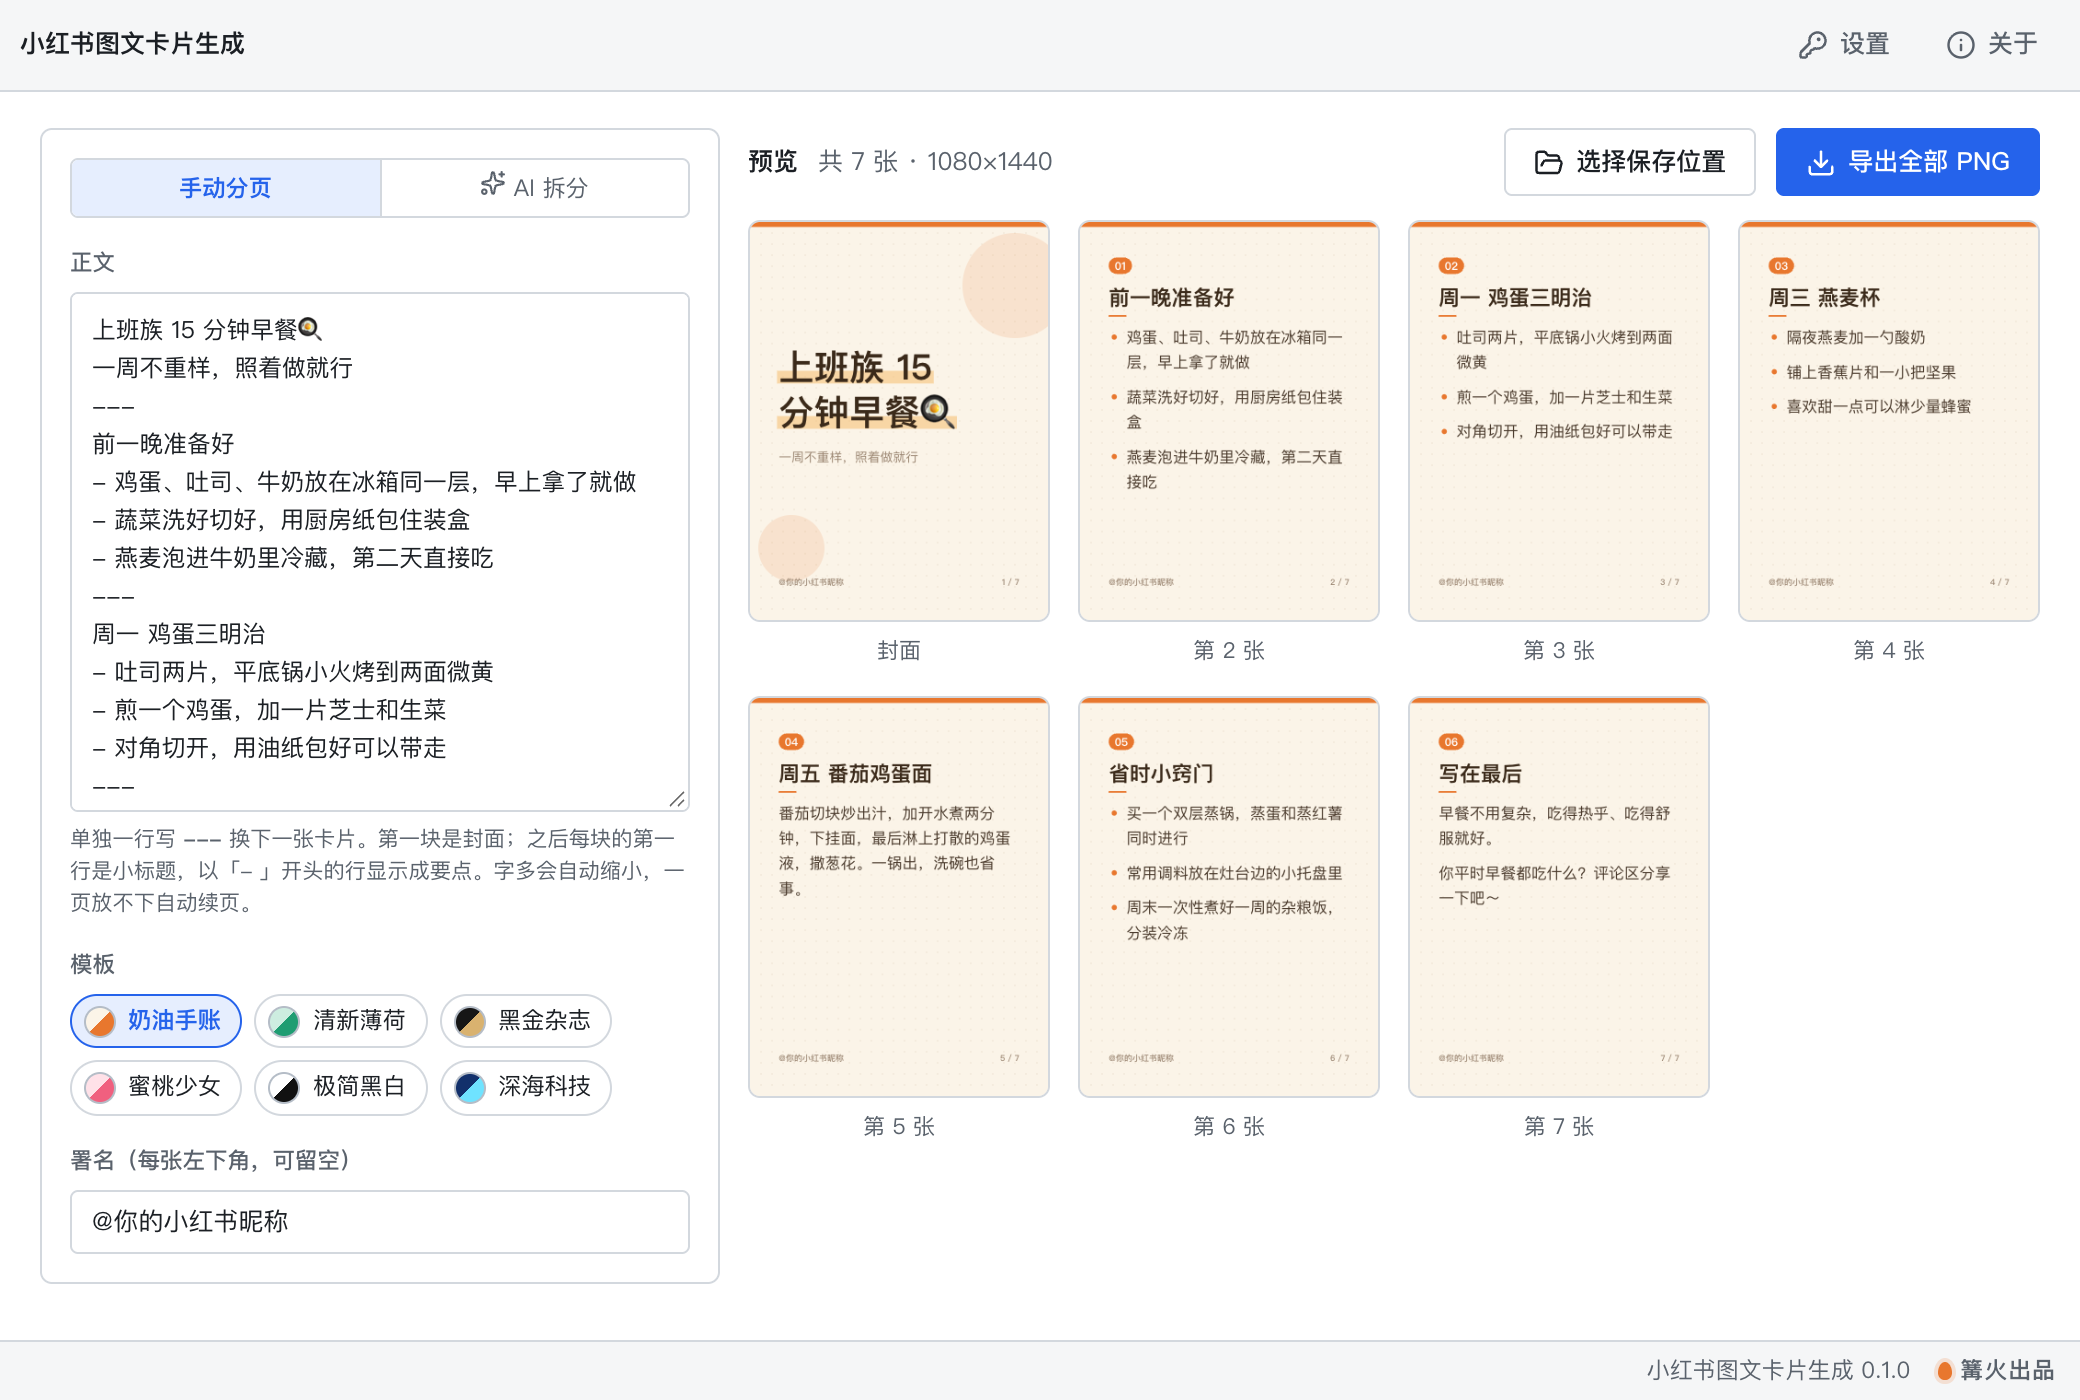
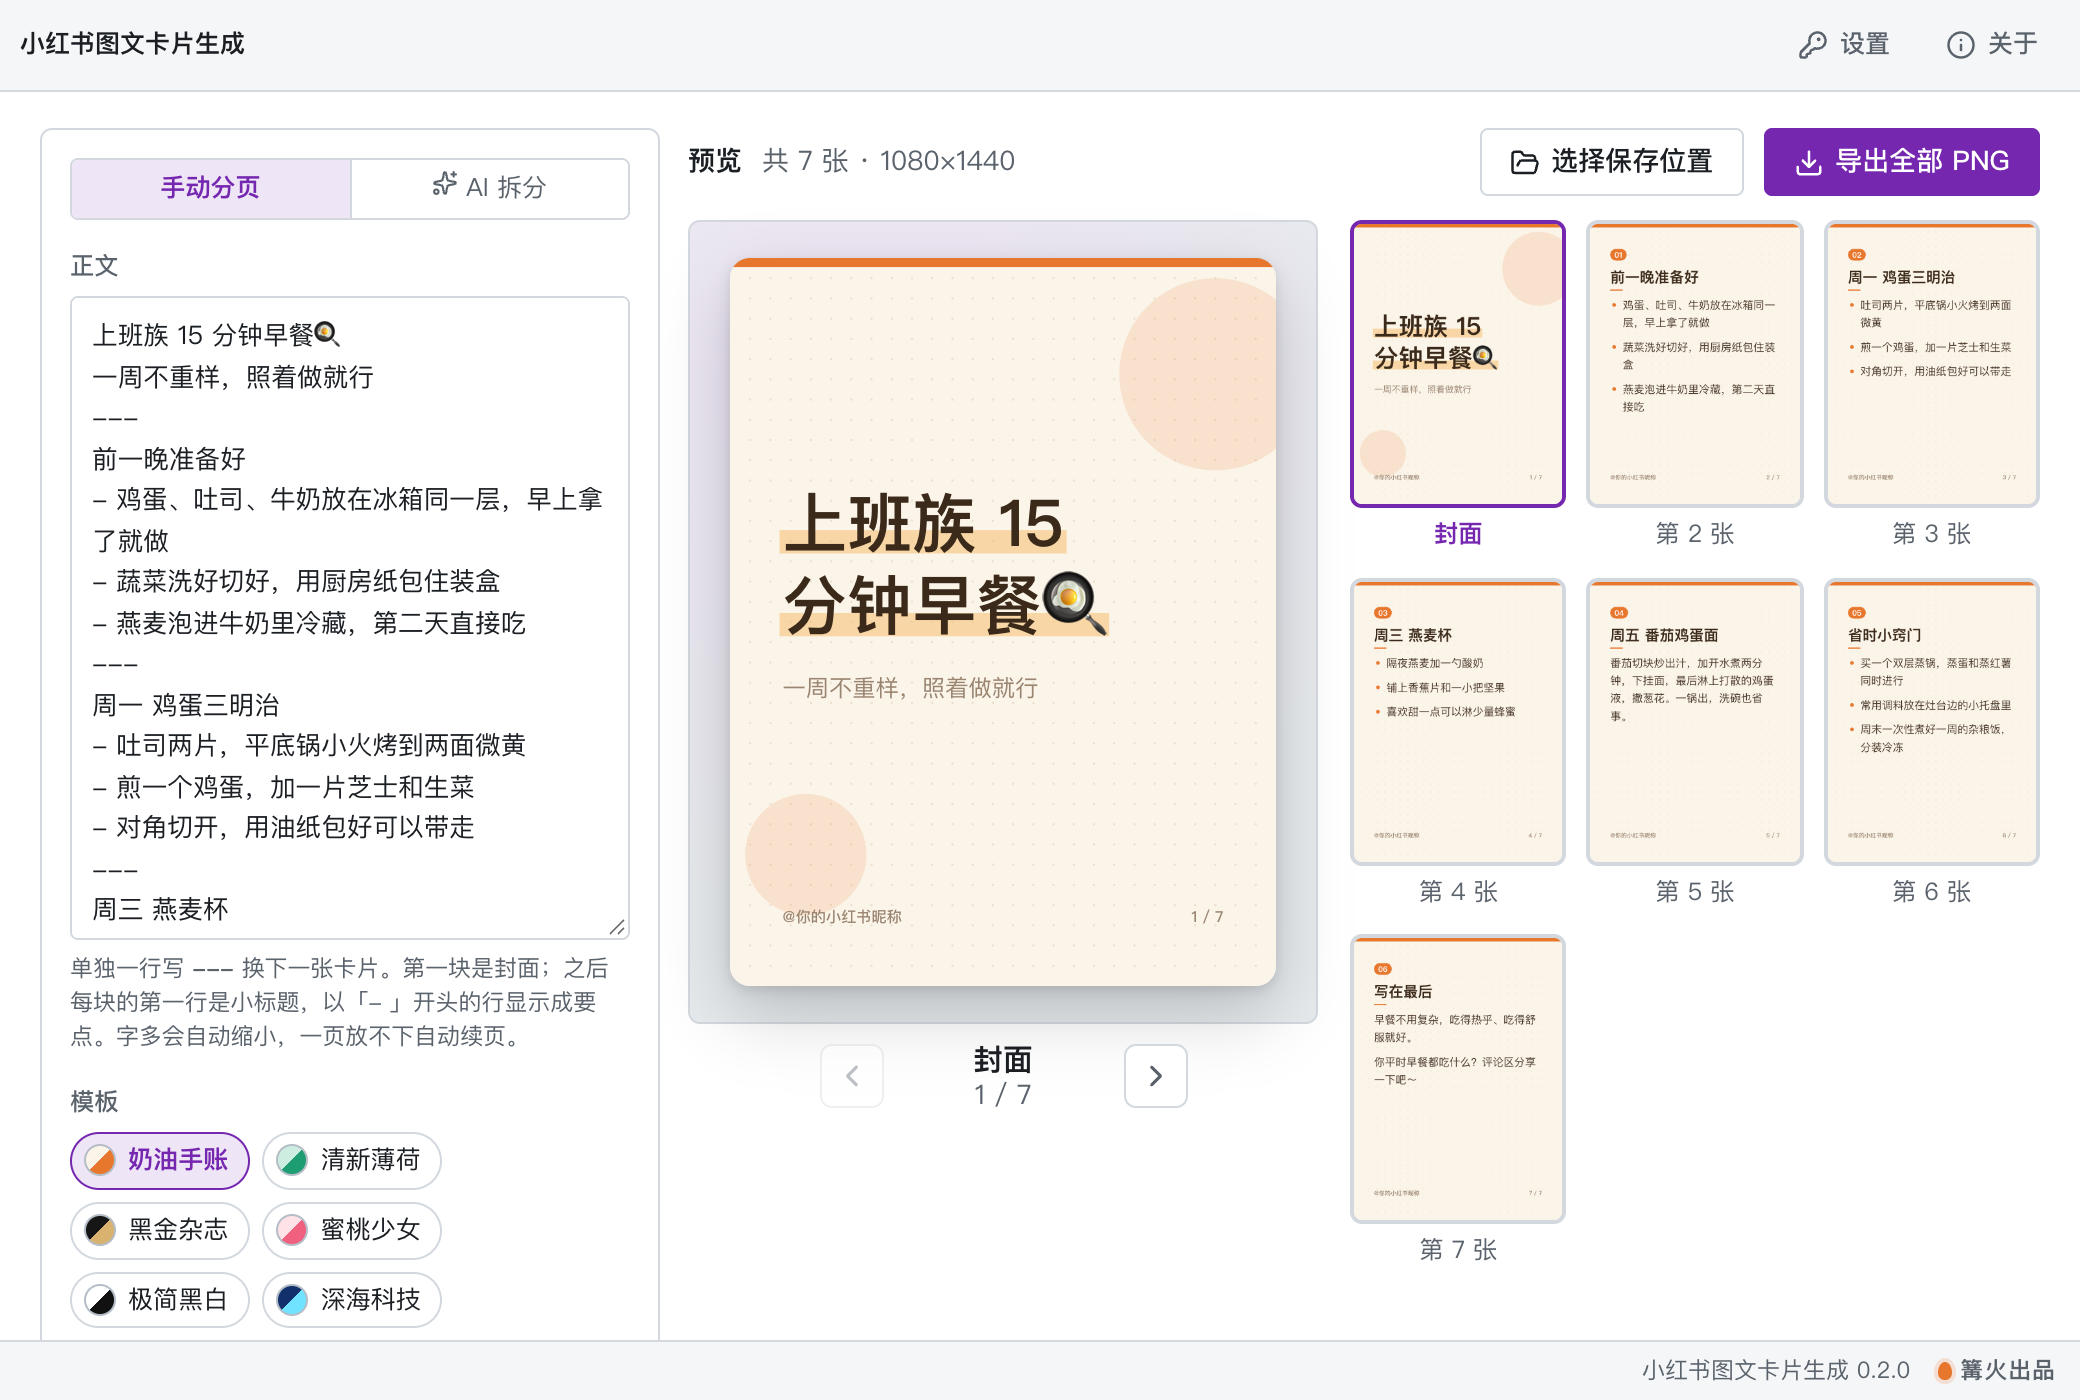
0.2.0：预览改为大图加缩略图，换主色

diff --git a/src/tool/tool.css b/src/tool/tool.css
@@ -1,5 +1,5 @@
 /* 小红书图文卡片生成：只用 kit.css 的变量，类名以 xc- 开头 */
-.xc { flex: 1; display: grid; grid-template-columns: minmax(250px, 340px) minmax(0, 1fr); gap: 14px; align-items: start; min-height: 0; }
+.xc { font-size: 13.5px; flex: 1; display: grid; grid-template-columns: minmax(250px, 310px) minmax(0, 1fr); gap: 14px; align-items: start; min-height: 0; }
 .xc-edit { position: sticky; top: 0; display: flex; flex-direction: column; gap: 14px; padding: 14px; max-height: 100%; }
 .xc-grow { flex: 1; min-height: 0; }
 .xc-text { min-height: 260px; height: 46vh; resize: vertical; font-size: .95em; }
@@ -10,12 +10,25 @@
 .xc-bar { display: flex; align-items: center; gap: 10px; flex-wrap: wrap; }
 .xc-dir { max-width: min(320px, 100%); }
 .xc-dir span { max-width: 260px; }
-.xc-grid { display: grid; grid-template-columns: repeat(auto-fill, minmax(150px, 1fr)); gap: 14px; }
-.xc-card { display: grid; gap: 6px; padding: 0; border: 0; background: none; cursor: zoom-in; text-align: center; font-size: .88em; min-width: 0; }
-.xc-card canvas { width: 100%; aspect-ratio: 3 / 4; height: auto; border-radius: min(var(--radius-lg), 12px); border: 1px solid var(--line); background: var(--chip); transition: border-color .15s var(--ease), transform .15s var(--ease); }
-.xc-card:hover canvas { border-color: var(--primary); transform: translateY(-2px); }
+.xc-stage { display: grid; grid-template-columns: auto minmax(0, 1fr); gap: 16px; align-items: start; }
+.xc-hero { display: grid; gap: 8px; justify-items: center; }
+.xc-desk { padding: 18px 20px; border-radius: var(--radius-lg); border: 1px solid var(--line); background: radial-gradient(circle at 30% 20%, var(--primary-soft), var(--chip) 70%); }
+.xc-big { cursor: zoom-in; padding: 0; border: 0; background: none; display: block; }
+.xc-card.xc-big canvas { height: min(52vh, 520px); width: auto; aspect-ratio: 3 / 4; border-radius: 10px; border: 0; box-shadow: 0 14px 34px color-mix(in srgb, var(--ink) 22%, transparent), 0 2px 6px color-mix(in srgb, var(--ink) 14%, transparent); }
+.xc-card.xc-big:hover canvas { transform: none; }
+.xc-hero-bar { display: flex; align-items: center; gap: 12px; }
+.xc-hero-name { display: grid; text-align: center; min-width: 96px; line-height: 1.3; }
+.xc-hero-name b { font-size: 1.1em; }
+.xc-nav { width: 32px; height: 32px; border: 1px solid var(--line); background: var(--surface); }
+.xc-nav:disabled { opacity: .4; cursor: not-allowed; }
+.xc-strip { display: grid; grid-template-columns: repeat(auto-fill, minmax(84px, 1fr)); gap: 12px 10px; align-content: start; }
+.xc-card { display: grid; gap: 4px; padding: 0; border: 0; background: none; cursor: pointer; text-align: center; font-size: .9em; color: var(--muted); min-width: 0; }
+.xc-card canvas { width: 100%; aspect-ratio: 3 / 4; height: auto; border-radius: min(var(--radius-lg), 8px); border: 2px solid var(--line); background: var(--chip); transition: border-color .15s var(--ease), transform .15s var(--ease); }
+.xc-card:hover canvas { border-color: var(--line-strong); transform: translateY(-2px); }
+.xc-card.on canvas { border-color: var(--primary); }
+.xc-card.on { color: var(--primary); font-weight: 600; }
 .xc-zoom { position: fixed; inset: 0; z-index: 50; display: grid; place-items: center; padding: 20px; background: color-mix(in srgb, var(--ink) 45%, transparent); }
 .xc-zoom-box { display: grid; gap: 12px; padding: 14px; max-height: 100%; }
 .xc-zoom-box canvas { height: min(72vh, 900px); width: auto; aspect-ratio: 3 / 4; border-radius: var(--radius); border: 1px solid var(--line); }
 .xc-zoom-bar { display: flex; align-items: center; justify-content: center; gap: 10px; }
-@media (max-width: 760px) { .xc { grid-template-columns: 1fr; } .xc-edit { position: static; } }
+@media (max-width: 760px) { .xc, .xc-stage { grid-template-columns: 1fr; } .xc-edit { position: static; } }

diff --git a/src/tool/core.ts b/src/tool/core.ts
@@ -265,6 +265,7 @@ export function llmMessages(topic: string): { role: 'system' | 'user'; content: 
     {
       role: 'system',
       content:
+        // check-zh: 忽略（发给大模型的提示词，不显示给用户）
         '你是小红书图文笔记编辑。把用户给的主题或正文整理成一套图文卡片：一个吸引人的封面标题（不超过 20 字，可以带 1 个 emoji），' +
         `一句副标题（不超过 20 字），以及 ${MIN_PAGES}～${MAX_PAGES} 页内容卡片。每页一个小标题（不超过 12 字）和 2～4 条要点，每条要点不超过 40 字，口语化、具体、有干货。` +
         '不要使用「最」「第一」「国家级」等广告法禁用的绝对化用语，不要编造数据。' +

diff --git a/README.md b/README.md
@@ -31,7 +31,7 @@
 3. 字多会自动缩小字号；最小字号也放不下时自动拆出「接上页」的续页，不会把字挤出卡片。
 4. 「模板」里有 6 套风格：奶油手账、清新薄荷、黑金杂志、蜜桃少女、极简黑白、深海科技，点一下全部卡片立即换样式。
 5. 「署名」会写在每张卡片左下角（如 `@你的小红书昵称`），可留空。
-6. 点任意一张缩略图可以放大看，键盘左右键翻页，Esc 关闭。
+6. 右边中间是当前这张的大图，点右侧缩略图（或大图下方的左右箭头）切换；点大图可全屏放大，键盘左右键翻页，Esc 关闭。
 7. 点「导出全部 PNG」，在保存位置下新建「小红书卡片-日期时间」文件夹，按顺序存成 `01-封面.png`、`02-小标题.png`…，每张 1080×1440（3:4 竖版），可直接发小红书。默认保存到「下载 / 小红书图文卡片生成」，点「选择保存位置」可以改。
 
 **让 AI 拆分**（可选）：

diff --git a/CHANGELOG.md b/CHANGELOG.md
@@ -1,5 +1,11 @@
 # 更新记录
 
+## 0.2.0
+
+- 预览区改成「大图加缩略图」：中间放大显示当前卡片，右侧缩略图点选切换，点大图可全屏放大。
+- 主色改为紫色，编辑区字号调到 13.5px。
+- 发给大模型的提示词里的英文标注忽略中文检查，界面文字已全部为中文。
+
 ## 0.1.0
 
 - 首个版本。
